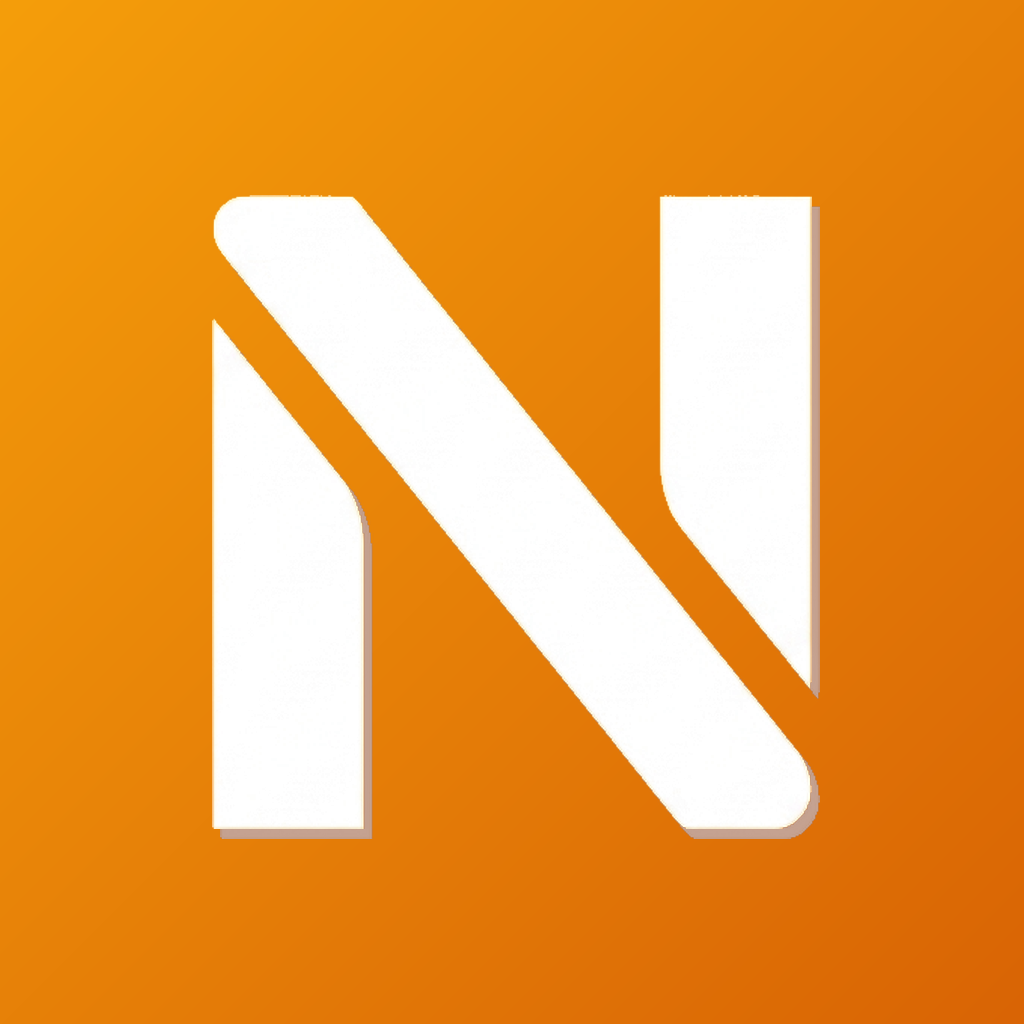
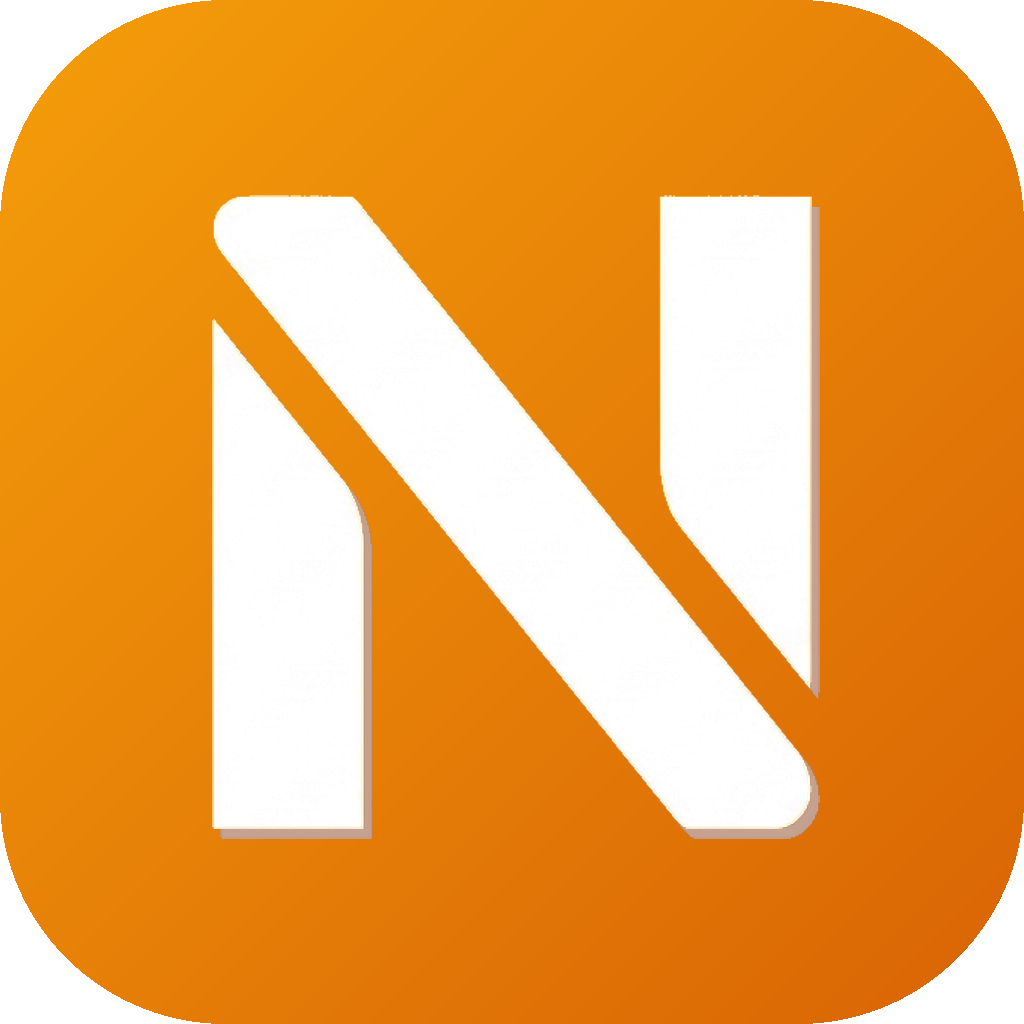
Updates

diff --git a/sw.js b/sw.js
@@ -1,1 +1,1 @@
-if(!self.define){let e,i={};const n=(n,s)=>(n=new URL(n+".js",s).href,i[n]||new Promise(i=>{if("document"in self){const e=document.createElement("script");e.src=n,e.onload=i,document.head.appendChild(e)}else e=n,importScripts(n),i()}).then(()=>{let e=i[n];if(!e)throw new Error(`Module ${n} didn’t register its module`);return e}));self.define=(s,r)=>{const c=e||("document"in self?document.currentScript.src:"")||location.href;if(i[c])return;let o={};const t=e=>n(e,c),l={module:{uri:c},exports:o,require:t};i[c]=Promise.all(s.map(e=>l[e]||t(e))).then(e=>(r(...e),o))}}define(["./workbox-9c191d2f"],function(e){"use strict";self.skipWaiting(),e.clientsClaim(),e.precacheAndRoute([{url:"registerSW.js",revision:"27562022ec053a9614b296ba3cc3b0b6"},{url:"index.html",revision:"2665780e0996940239c38b60183c76d7"},{url:"assets/index-qotp8YGP.js",revision:null},{url:"assets/index-C1WwtxYl.css",revision:null},{url:"favicon.ico",revision:"36af7fac647f40acb578e10d6fb713e6"},{url:"icon-192.png",revision:"10c713d348d42e2d13cf1ca09593939c"},{url:"icon-512.png",revision:"10c713d348d42e2d13cf1ca09593939c"},{url:"manifest.webmanifest",revision:"032b619dccf6cee90d75ac30daa20456"}],{}),e.cleanupOutdatedCaches(),e.registerRoute(new e.NavigationRoute(e.createHandlerBoundToURL("index.html")))});
+if(!self.define){let e,i={};const n=(n,s)=>(n=new URL(n+".js",s).href,i[n]||new Promise(i=>{if("document"in self){const e=document.createElement("script");e.src=n,e.onload=i,document.head.appendChild(e)}else e=n,importScripts(n),i()}).then(()=>{let e=i[n];if(!e)throw new Error(`Module ${n} didn’t register its module`);return e}));self.define=(s,r)=>{const o=e||("document"in self?document.currentScript.src:"")||location.href;if(i[o])return;let c={};const t=e=>n(e,o),l={module:{uri:o},exports:c,require:t};i[o]=Promise.all(s.map(e=>l[e]||t(e))).then(e=>(r(...e),c))}}define(["./workbox-9c191d2f"],function(e){"use strict";self.skipWaiting(),e.clientsClaim(),e.precacheAndRoute([{url:"registerSW.js",revision:"27562022ec053a9614b296ba3cc3b0b6"},{url:"index.html",revision:"2665780e0996940239c38b60183c76d7"},{url:"assets/index-qotp8YGP.js",revision:null},{url:"assets/index-C1WwtxYl.css",revision:null},{url:"favicon.ico",revision:"1204cc63c7e39af7fb12f45880f0fbea"},{url:"icon-192.png",revision:"b24b1e9dfe51c99b59f68cbb9fb81460"},{url:"icon-512.png",revision:"b24b1e9dfe51c99b59f68cbb9fb81460"},{url:"manifest.webmanifest",revision:"032b619dccf6cee90d75ac30daa20456"}],{}),e.cleanupOutdatedCaches(),e.registerRoute(new e.NavigationRoute(e.createHandlerBoundToURL("index.html")))});
